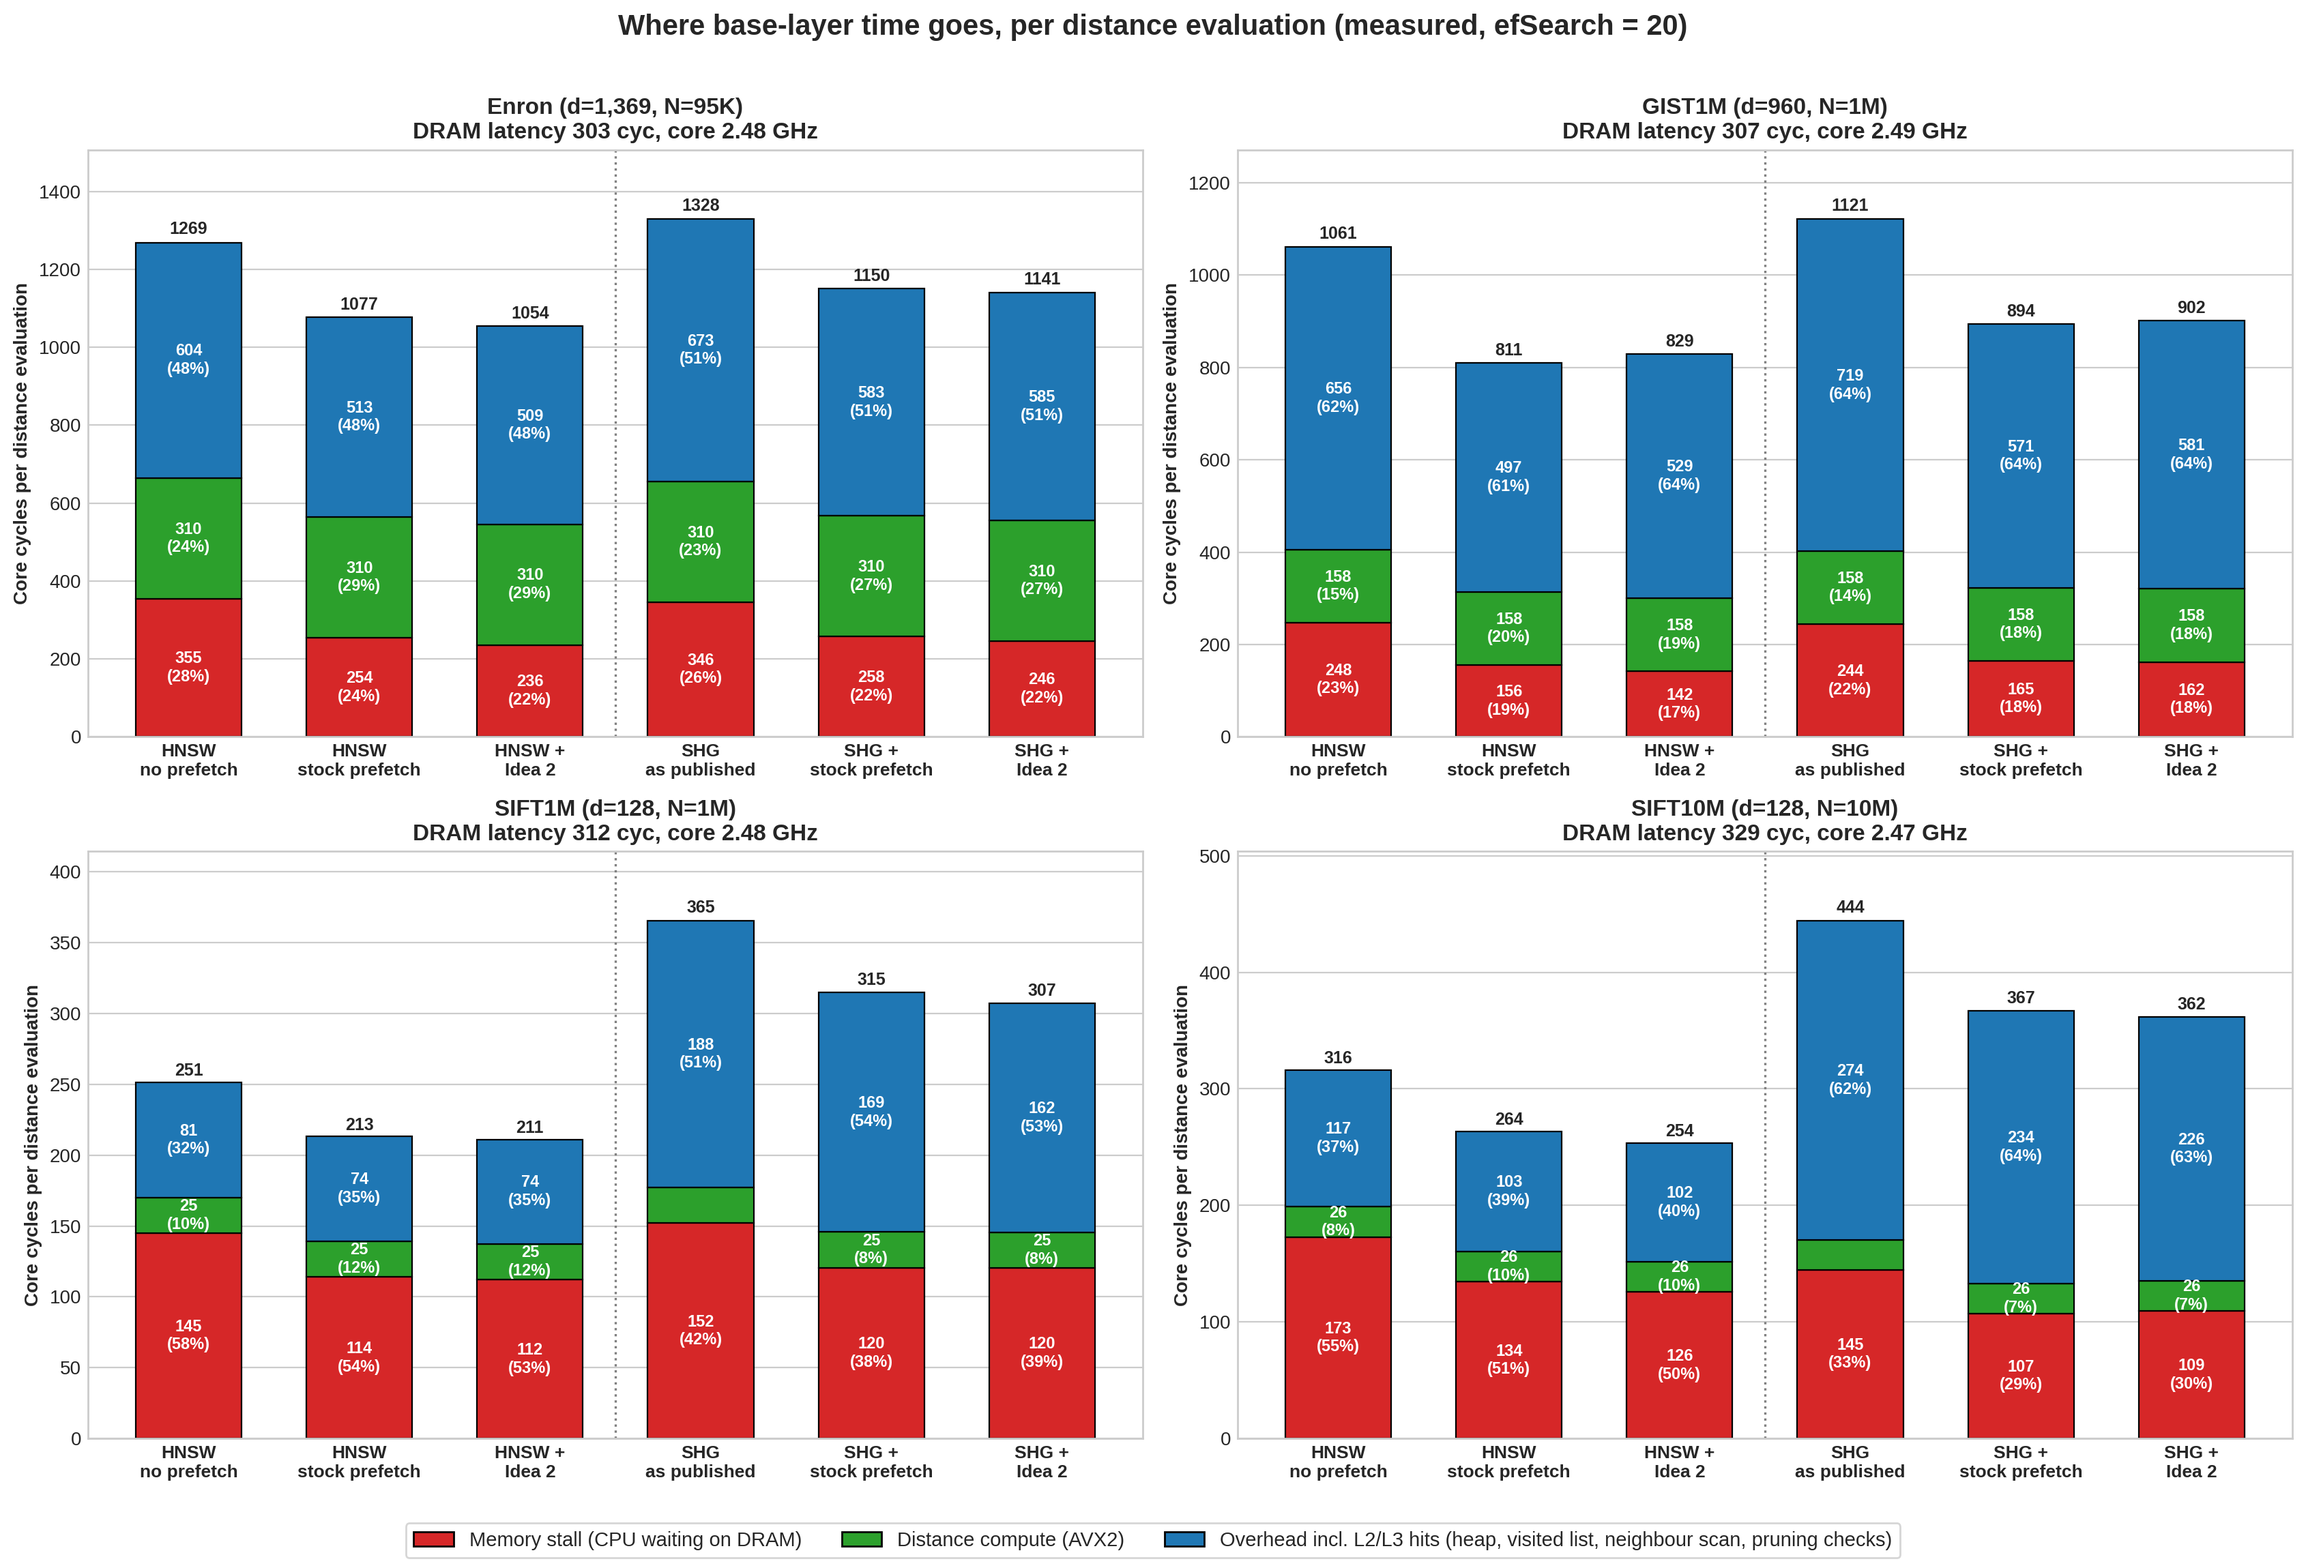
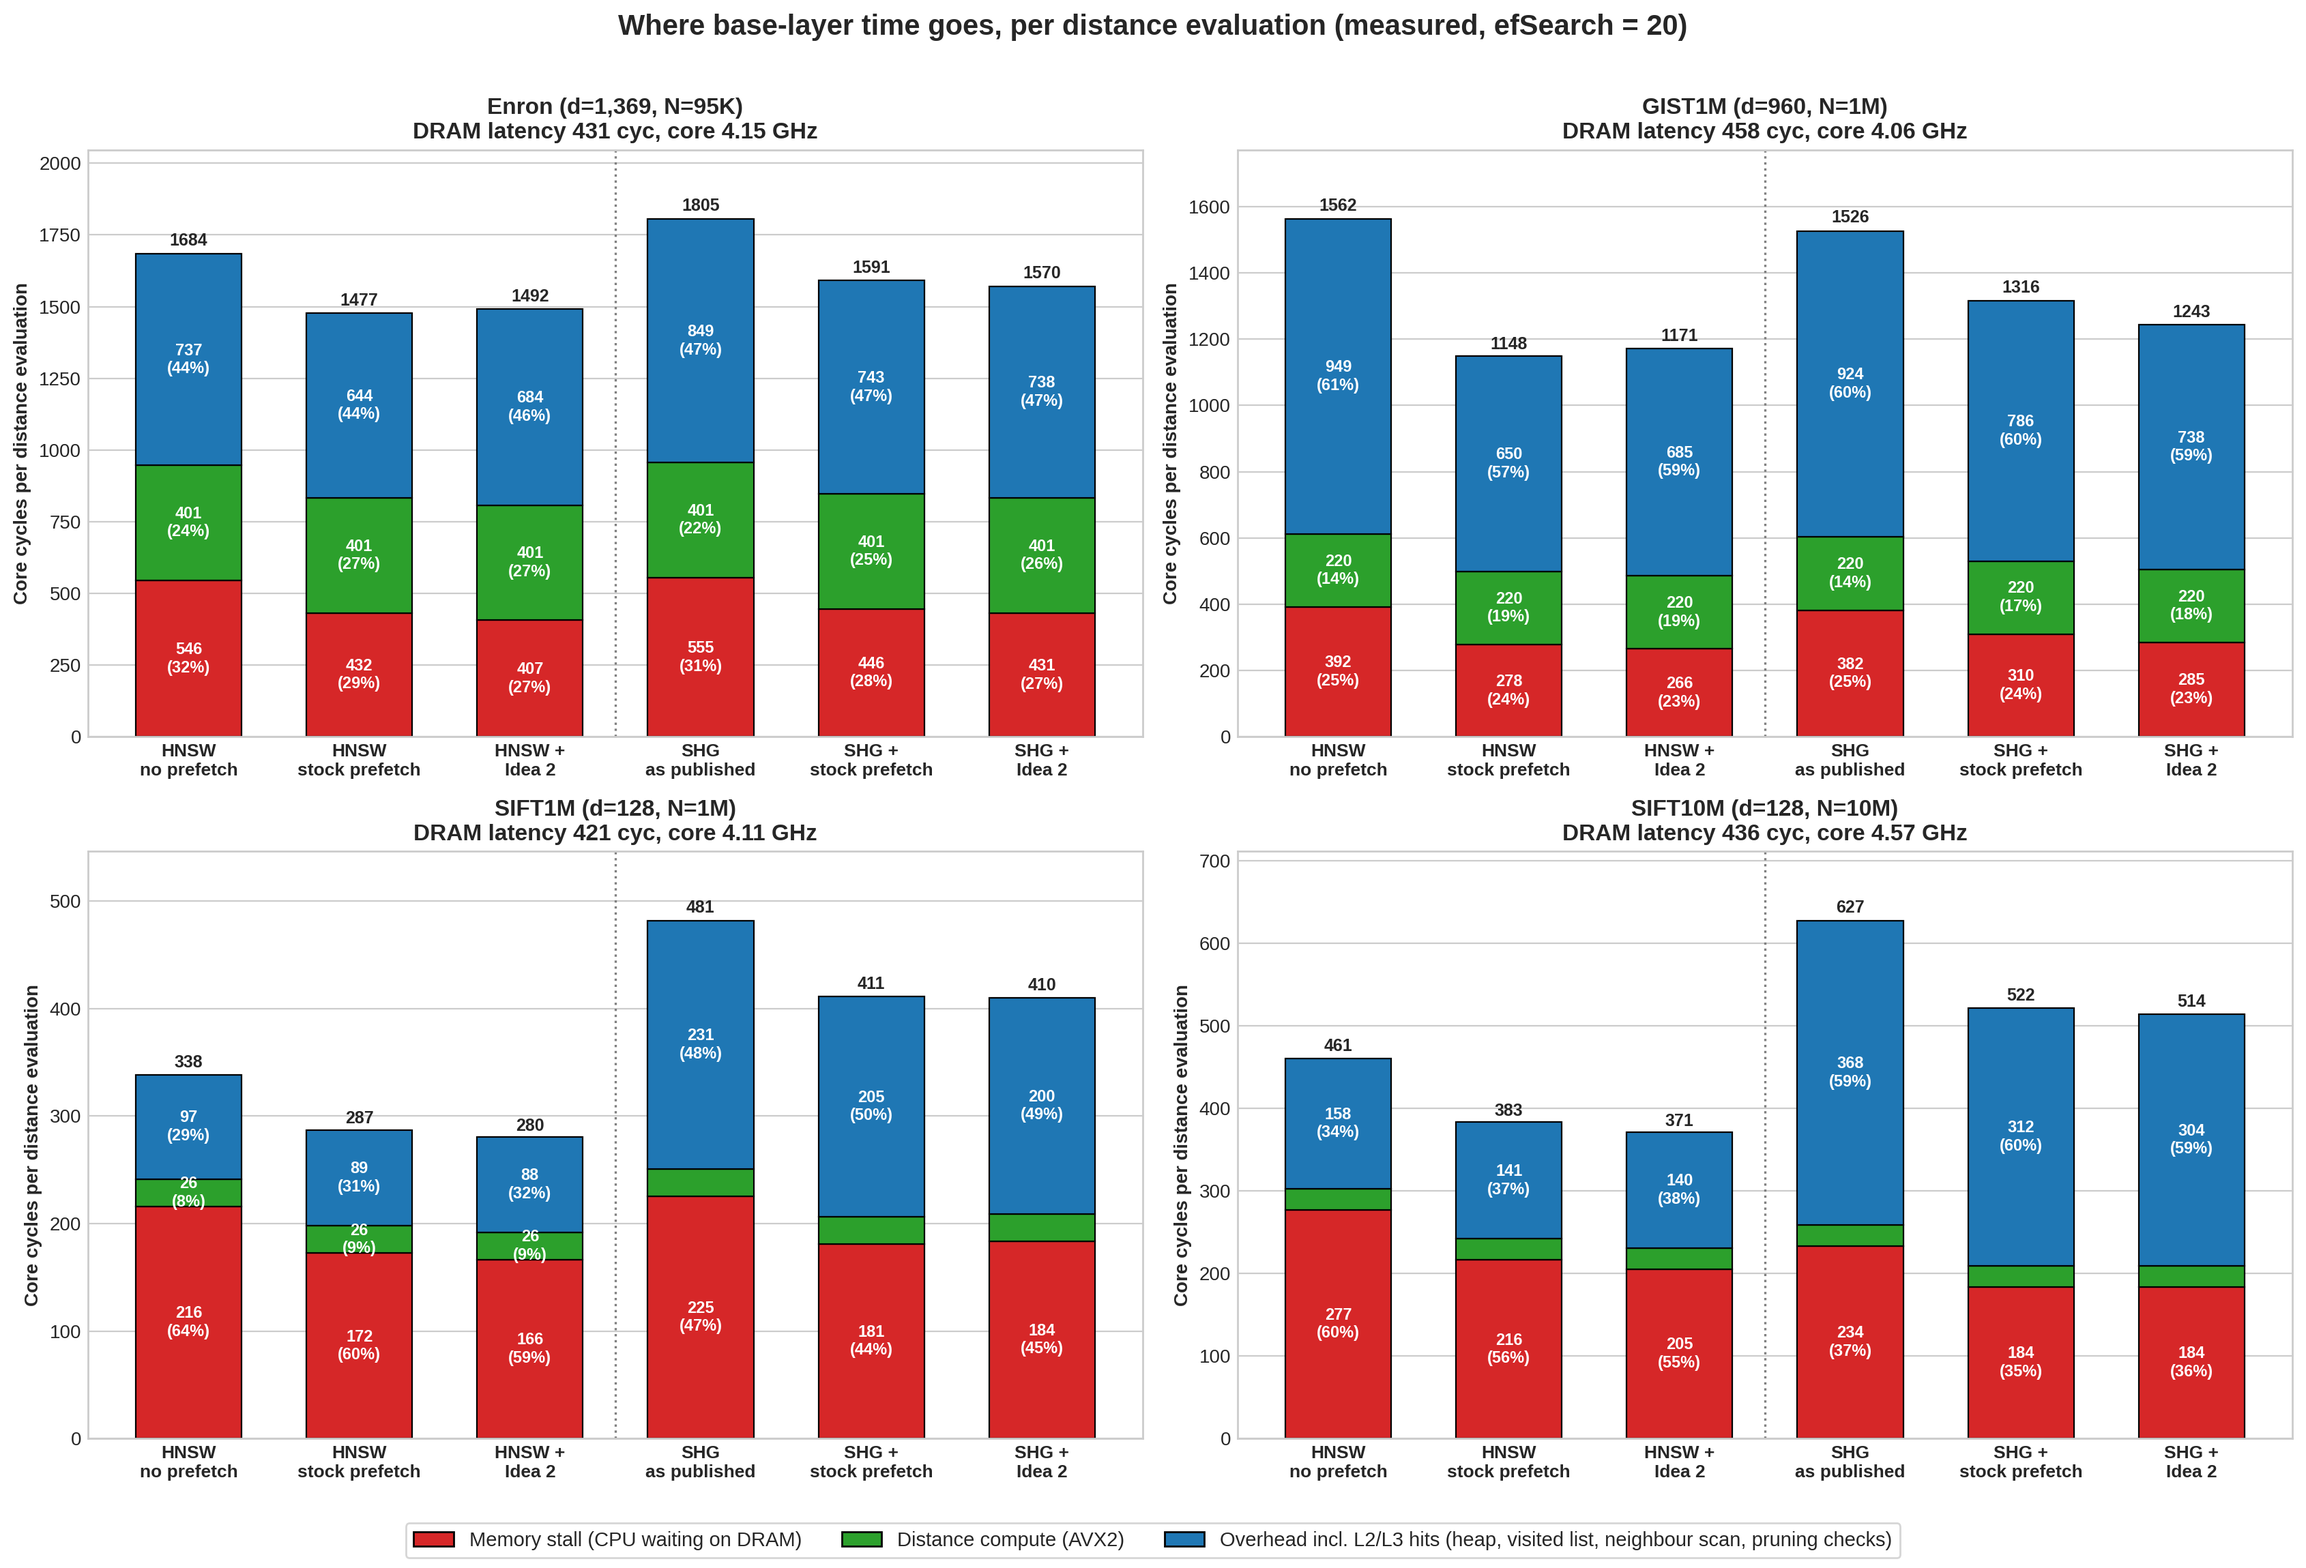
plots: Idea 2.0 figures (new_plot/8, 9a, 9b); redraw 5 and 6 with corrected cycles
plot_idea2v2.py reads bench_prune/stall4_<dataset>/stall.csv:
  8_idea2v2_speedup.png          speedup vs no prefetch: stock, Idea 2,
                                 2.0 basic, 2.0 filter; HNSW and SHG
                                 (bars efSearch 64, markers 20 / 100)
  9a/9b_idea2v2_breakdown_*.png  stall / compute / overhead per distance
                                 evaluation, HNSW and SHG, efSearch 64
  idea2v2_summary.csv
plot_motivation.py now takes Figures 5 and 6 from stall4_ (corrected
clock calibration); Figure 7 (lookahead sweep) still uses stall2_, which
is fine because it shows only speedups.

diff --git a/plot_idea2v2.py b/plot_idea2v2.py
@@ -1,0 +1,94 @@
+"""Idea 2.0 figures from bench_prune/stall4_<dataset>/stall.csv (bench_stall built with -DIDEA2V2).
+
+8_idea2v2_speedup.png          base-layer speedup vs no prefetch, every prefetch variant, SHG and HNSW
+                               (bars = efSearch 64, dots = efSearch 20 and 100)
+9a_idea2v2_breakdown_hnsw.png  stall / compute / overhead per distance evaluation, HNSW, efSearch 64
+9b_idea2v2_breakdown_shg.png   same for SHG
+idea2v2_summary.csv            all numbers used above
+Speedup = mean cold base-layer time of no-prefetch / that of the variant (same graph, same queries)."""
+import os
+import pandas as pd
+import numpy as np
+import matplotlib; matplotlib.use("Agg")
+import matplotlib.pyplot as plt
+
+OUT = 'new_plot'; os.makedirs(OUT, exist_ok=True)
+DATASETS = [('enron', 'Enron (d=1,369, N=95K)'), ('gist', 'GIST1M (d=960, N=1M)'),
+            ('sift', 'SIFT1M (d=128, N=1M)'), ('sift10m', 'SIFT10M (d=128, N=10M)')]
+data = {k: pd.read_csv(f'bench_prune/stall4_{k}/stall.csv').set_index(['method', 'ef'])
+        for k, _ in DATASETS if os.path.exists(f'bench_prune/stall4_{k}/stall.csv')}
+DATASETS = [(k, t) for k, t in DATASETS if k in data]
+BASE = {'SHG': 'SHG_original', 'HNSW': 'HNSW_noprefetch'}
+VARS = [('stock', 'stock'), ('idea2_L2', 'Idea 2'), ('v2_basic', '2.0\nbasic'), ('v2_filter', '2.0\nfilter')]
+FAM_C = {'HNSW': '#1f77b4', 'SHG': '#d62728'}
+C = dict(stall='#d62728', compute='#2ca02c', overhead='#1f77b4')
+plt.style.use('seaborn-v0_8-whitegrid' if 'seaborn-v0_8-whitegrid' in plt.style.available else 'default')
+
+def grid(w=17):
+    nr = (len(DATASETS) + 1) // 2
+    fig, ax = plt.subplots(nr, 2, figsize=(w, 5.8 * nr), dpi=200, squeeze=False)
+    for a in ax.flat[len(DATASETS):]: a.set_visible(False)
+    return fig, ax.flat
+
+rows = []
+for k, _ in DATASETS:
+    d = data[k]
+    for fam, b in BASE.items():
+        for e in sorted(d.index.get_level_values('ef').unique()):
+            t0 = d.loc[(b, e), 'cold_base_us']
+            for v, _ in [('noprefetch', '')] + VARS:
+                m = b if v == 'noprefetch' else f'{fam}_{v}'
+                r = d.loc[(m, e)]
+                rows.append(dict(dataset=k, family=fam, variant=v, efSearch=e, base_us=r.cold_base_us, speedup=t0 / r.cold_base_us,
+                                 stall=r.stall_cyc_per_eval, compute=r.compute_cyc_per_eval, overhead=r.overhead_cyc_per_eval,
+                                 total=r.cold_cyc_per_eval))
+S = pd.DataFrame(rows)
+S.round(4).to_csv(f'{OUT}/idea2v2_summary.csv', index=False)
+
+# ---------- Figure 8: speedup of every variant ----------
+fig, axes = grid()
+x = np.arange(len(VARS)); w = 0.38
+for a, (k, title) in zip(axes, DATASETS):
+    for i, fam in enumerate(('HNSW', 'SHG')):
+        s = S[(S.dataset == k) & (S.family == fam)]
+        v64 = [s[(s.variant == v) & (s.efSearch == 64)].speedup.iloc[0] for v, _ in VARS]
+        xs = x + (i - 0.5) * w
+        a.bar(xs, v64, w, color=FAM_C[fam], edgecolor='black', lw=0.7, label=f'{fam}, efSearch 64')
+        for xx, val in zip(xs, v64): a.text(xx, val + 0.005, f'{val:.2f}', ha='center', va='bottom', fontsize=7.5, fontweight='bold')
+        for e, mk in ((20, 'v'), (100, '^')):
+            ve = [s[(s.variant == v) & (s.efSearch == e)].speedup.iloc[0] for v, _ in VARS]
+            a.scatter(xs, ve, marker=mk, color='black', s=18, zorder=5, label=f'efSearch {e}' if i == 0 else None)
+        best = int(np.argmax(v64)); a.bar(xs[best], v64[best], w, fill=False, edgecolor='gold', lw=2.5)
+    a.axhline(1, color='grey', lw=1); a.axvline(1.5, color='grey', ls=':', lw=1.2)
+    a.set_xticks(x); a.set_xticklabels([l for _, l in VARS], fontsize=9, fontweight='bold')
+    lo = min(0.95, S[S.dataset == k].speedup.min() - 0.03); hi = S[S.dataset == k].speedup.max() + 0.06
+    a.set_ylim(lo, hi); a.set_ylabel('Base-layer speedup vs no prefetch (x)', fontweight='bold')
+    a.set_title(title, fontweight='bold'); a.grid(axis='x', visible=False)
+h, l = axes[0].get_legend_handles_labels()
+fig.legend(h, l, loc='lower center', ncol=4, fontsize=10.5, frameon=True)
+fig.suptitle('Idea 2.0 variants vs stock prefetch and Idea 2 (gold outline = best at efSearch 64)', fontsize=15, fontweight='bold')
+fig.tight_layout(rect=(0, 0.05, 1, 0.97)); fig.savefig(f'{OUT}/8_idea2v2_speedup.png', bbox_inches='tight'); plt.close(fig)
+print('saved', f'{OUT}/8_idea2v2_speedup.png')
+
+# ---------- Figure 9: breakdown per variant, efSearch 64 ----------
+for fam, tag in (('HNSW', '9a_idea2v2_breakdown_hnsw'), ('SHG', '9b_idea2v2_breakdown_shg')):
+    fig, axes = grid(18)
+    labs = [('noprefetch', 'no\nprefetch' if fam == 'HNSW' else 'as\npublished')] + VARS
+    for a, (k, title) in zip(axes, DATASETS):
+        s = S[(S.dataset == k) & (S.family == fam) & (S.efSearch == 64)].set_index('variant')
+        for xi, (v, _) in enumerate(labs):
+            r = s.loc[v]; bottom = 0; tot = max(r.stall, 0) + r.compute + r.overhead
+            for name in ('stall', 'compute', 'overhead'):
+                val = max(r[name], 0)
+                a.bar(xi, val, 0.66, bottom=bottom, color=C[name], edgecolor='black', lw=0.7)
+                if val / tot > 0.08: a.text(xi, bottom + val / 2, f'{val:.0f}', ha='center', va='center', color='white', fontsize=8, fontweight='bold')
+                bottom += val
+            a.text(xi, bottom * 1.01, f'{tot:.0f}', ha='center', va='bottom', fontsize=8.5, fontweight='bold')
+        a.set_xticks(range(len(labs))); a.set_xticklabels([l for _, l in labs], fontsize=8.5, fontweight='bold')
+        a.set_ylabel('Core cycles per distance evaluation', fontweight='bold'); a.set_title(title, fontweight='bold')
+        a.set_ylim(0, a.get_ylim()[1] * 1.06); a.grid(axis='x', visible=False)
+    hh = [plt.Rectangle((0, 0), 1, 1, color=C[n], ec='black') for n in ('stall', 'compute', 'overhead')]
+    fig.legend(hh, ['Memory stall (DRAM, not hidden)', 'Distance compute', 'Overhead incl. L2/L3 hits'], loc='lower center', ncol=3, fontsize=10.5, frameon=True)
+    fig.suptitle(f'{fam}: where base-layer time goes for each prefetch variant (efSearch = 64)', fontsize=15, fontweight='bold')
+    fig.tight_layout(rect=(0, 0.04, 1, 0.97)); fig.savefig(f'{OUT}/{tag}.png', bbox_inches='tight'); plt.close(fig)
+    print('saved', f'{OUT}/{tag}.png')

diff --git a/plot_motivation.py b/plot_motivation.py
@@ -16,9 +16,11 @@ DATASETS = [('enron', 'Enron (d=1,369, N=95K)'), ('gist', 'GIST1M (d=960, N=1M)'
             ('sift', 'SIFT1M (d=128, N=1M)'), ('sift10m', 'SIFT10M (d=128, N=10M)')]
 data = {}; full = {}
 for k, _ in DATASETS:
-    f = f'bench_prune/stall2_{k}/stall.csv'
+    f, f2 = f'bench_prune/stall4_{k}/stall.csv', f'bench_prune/stall2_{k}/stall.csv'   # stall4: corrected clock calibration
+    if os.path.exists(f2): full[k] = pd.read_csv(f2)   # lookahead sweep L=2..5 (speedups only, clock-independent)
+    if not os.path.exists(f): f = f2
     if os.path.exists(f):
-        d = pd.read_csv(f); full[k] = d.copy()
+        d = pd.read_csv(f)
         d = d[d.ef == EF].copy(); d['method'] = d.method.replace({'SHG_idea2_L2': 'SHG_idea2', 'HNSW_idea2_L2': 'HNSW_idea2'})
         data[k] = d.set_index('method')
 DATASETS = [(k, t) for k, t in DATASETS if k in data]
